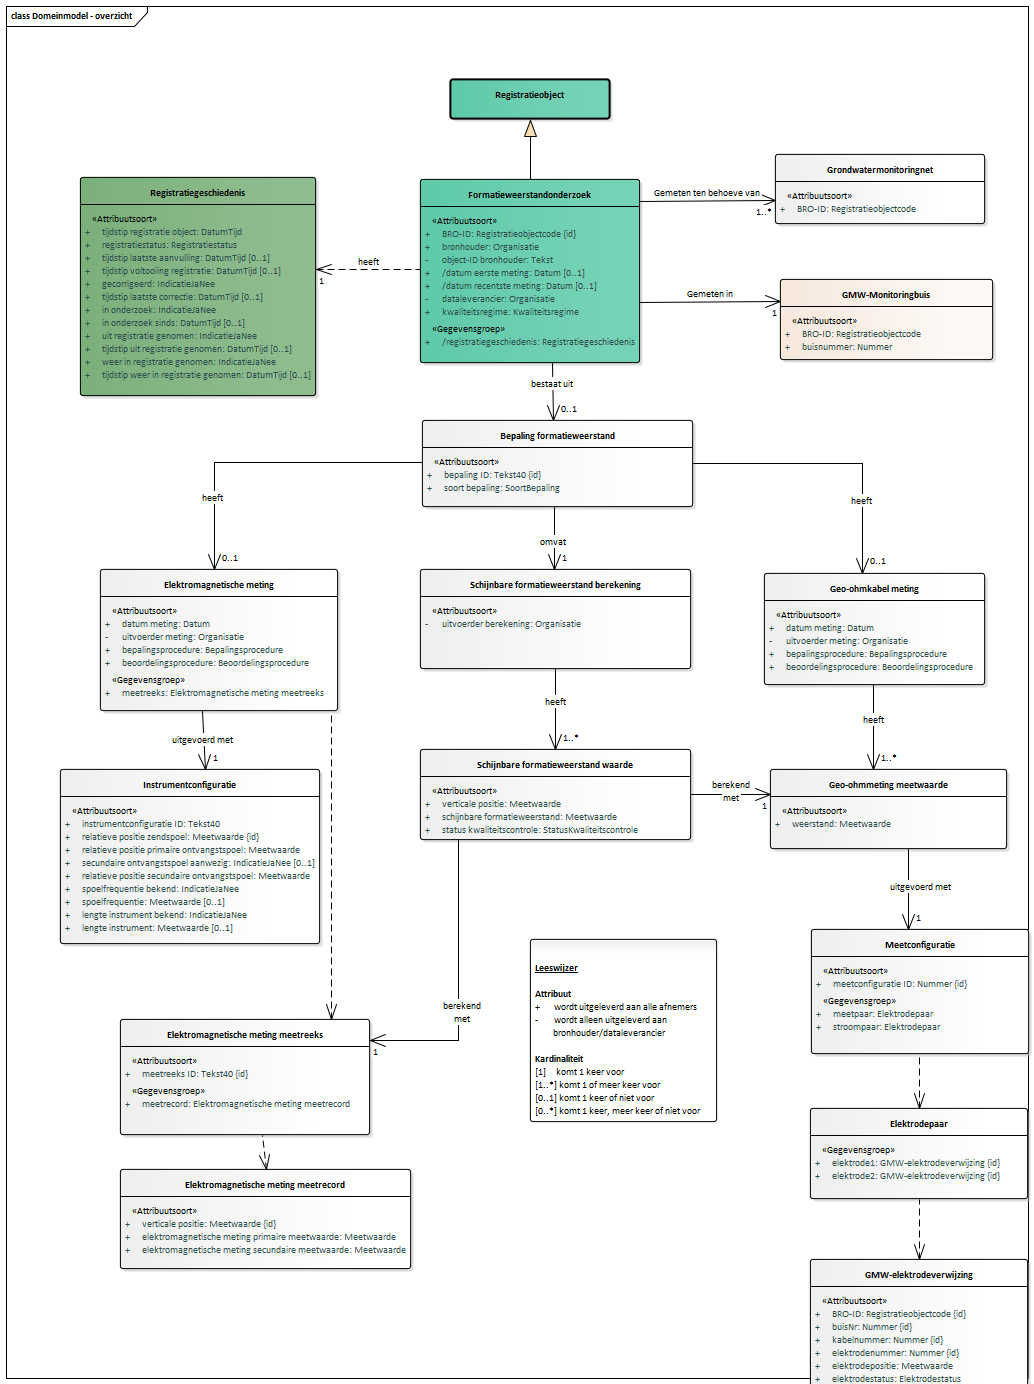
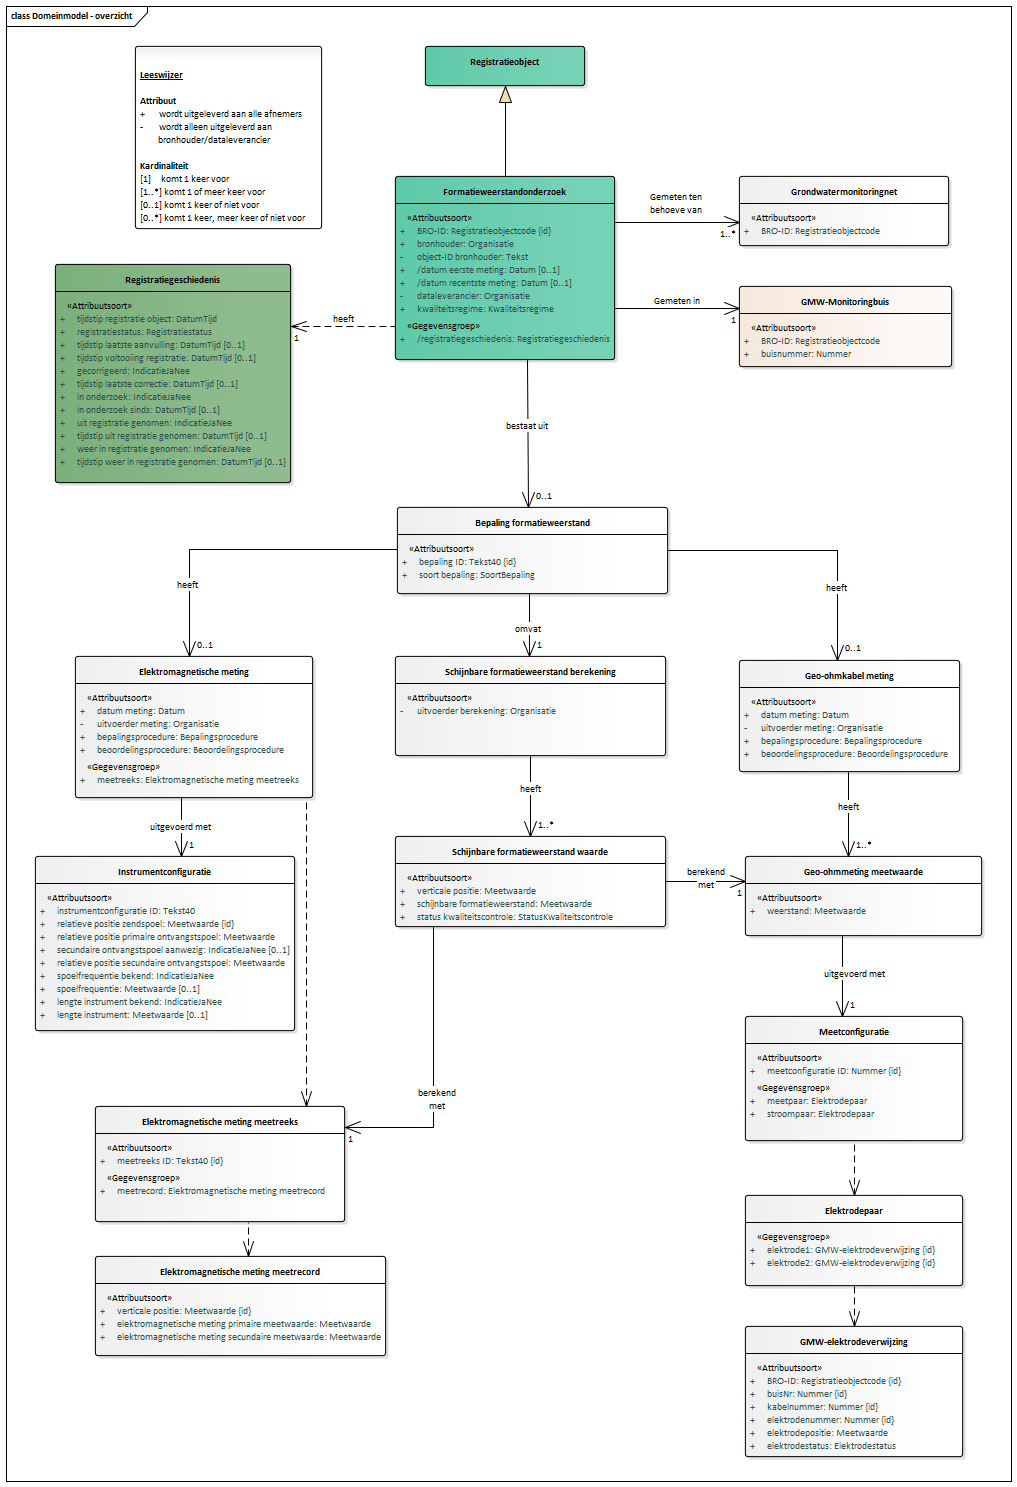
Conceptualmodel-FormatieweerstandonderzoekFRDconceptueel-0.8-1-20200910-20201004-162627

Changed region(s): [[0.0, 0.0, 1.0, 1.0], [0.5182, 0.6835, 0.6706, 0.8078], [0.4267, 0.7146, 0.4572, 0.7457]]

diff --git a/data/FRD-cat.msword.html b/data/FRD-cat.msword.html
@@ -15,7 +15,7 @@
    <body>
       <p>Conceptual model/Formatieweerstand onderzoek (FRD) conceptueel/20200910</p>
       <p>Imvertor: 1.61.3</p>
-      <p>Model release: Conceptualmodel-FormatieweerstandonderzoekFRDconceptueel-0.8-1-20200910-20201004-162001</p>
+      <p>Model release: Conceptualmodel-FormatieweerstandonderzoekFRDconceptueel-0.8-1-20200910-20201004-162627</p>
       <hr>
       <section>
          <h1>Artikel 1 Definitie van registratieobject, entiteiten en attributen</h1>
@@ -64,7 +64,7 @@
          <section>
             <h2>Het domeinmodel</h2>
             <section id="">
-               <div class="imageinfo overview"><img src="Images/EAID_0B3602DB_544E_4f6f_A6E2_DDE4A8A6790E.png" usemap="#imagemap-EAID_0B3602DB_544E_4f6f_A6E2_DDE4A8A6790E" alt="Diagram De lijst van protocollen of werkvoorschriften dat is toegepast bij de beoordeling van de kwaliteit van de meting.&#xA;"><map name="imagemap-EAID_0B3602DB_544E_4f6f_A6E2_DDE4A8A6790E"><area shape="rect" alt="Schijnbare formatieweerstand waarde" coords="420,749,691,840" href="#graph_EAID_1C615D07_2360_4c93_8371_F9173FA1C85B"><area shape="rect" alt="Schijnbare formatieweerstand berekening" coords="420,569,691,669" href="#graph_EAID_6F6C1FC0_77AE_4d31_8862_B7B443C2D0C8"><area shape="rect" alt="Elektromagnetische meting" coords="100,569,338,711" href="#graph_EAID_CA2EEC38_0161_4d1b_968C_E63B2F5C1547"><area shape="rect" alt="Elektrodepaar" coords="810,1108,1028,1199" href="#graph_EAID_F78E7F84_132E_4390_A72A_D32759DEBED4"><area shape="rect" alt="Geo-ohmkabel meting" coords="764,573,985,685" href="#graph_EAID_DB9DF92C_83D8_4d54_8B6A_6693052EF4B1"><area shape="rect" alt="Elektromagnetische meting meetreeks" coords="120,1019,370,1135" href="#graph_EAID_33450642_9C84_4c07_AFE3_FB734FBA8DBB"><area shape="rect" alt="Geo-ohmmeting meetwaarde" coords="770,769,1007,849" href="#graph_EAID_0E73504D_4081_4ea3_A7AA_1FB27FBC227B"><area shape="rect" alt="Instrumentconfiguratie" coords="60,769,320,944" href="#graph_EAID_C4102470_4315_4bda_9B2A_59EDEA9E2834"><area shape="rect" alt="Meetconfiguratie" coords="811,929,1029,1054" href="#graph_EAID_04636D26_BFC4_4838_AC91_21BB2BF62212"><area shape="rect" alt="Elektromagnetische meting meetrecord" coords="120,1169,411,1269" href="#graph_EAID_17DB4860_7353_467e_89CD_5018D22D8A43"><area shape="rect" alt="GMW-elektrodeverwijzing" coords="810,1259,1028,1390" href="#graph_EAID_EFFFB8A0_3810_43f9_83F1_FC48EFD1FE4E"><area shape="rect" alt="Grondwatermonitoringnet" coords="775,154,985,224" href="#graph_EAID_984D3056_0D28_4de8_B5D9_592AFE3F568F"><area shape="rect" alt="GMW-Monitoringbuis" coords="780,279,993,360" href="#graph_EAID_C5CA1164_130B_439f_819B_25C2507866E2"><area shape="rect" alt="Bepaling formatieweerstand" coords="422,420,693,507" href="#graph_EAID_D3B48B39_96CC_4f01_91F1_BDF0B725CD8A"><area shape="rect" alt="Registratiegeschiedenis" coords="80,177,316,396" href="#graph_EAID_0451B041_6862_420f_9E12_9829516BAF81"><area shape="rect" alt="Formatieweerstandonderzoek" coords="420,179,640,363" href="#graph_EAID_F03C2FC8_5705_46dc_927D_01B7EC61C2F2"><area shape="rect" alt="Registratieobject" coords="450,79,610,119" href="#graph_EAID_5706F7F6_075B_46d6_A47D_7DCF1EEB21B7"></map><p><b>Domeinmodel</b> — De lijst van protocollen of werkvoorschriften dat is toegepast bij de beoordeling
+               <div class="imageinfo overview"><img src="Images/EAID_0B3602DB_544E_4f6f_A6E2_DDE4A8A6790E.png" usemap="#imagemap-EAID_0B3602DB_544E_4f6f_A6E2_DDE4A8A6790E" alt="Diagram De lijst van protocollen of werkvoorschriften dat is toegepast bij de beoordeling van de kwaliteit van de meting.&#xA;"><map name="imagemap-EAID_0B3602DB_544E_4f6f_A6E2_DDE4A8A6790E"><area shape="rect" alt="Schijnbare formatieweerstand waarde" coords="395,836,666,927" href="#graph_EAID_1C615D07_2360_4c93_8371_F9173FA1C85B"><area shape="rect" alt="Schijnbare formatieweerstand berekening" coords="395,656,666,756" href="#graph_EAID_6F6C1FC0_77AE_4d31_8862_B7B443C2D0C8"><area shape="rect" alt="Elektromagnetische meting" coords="75,656,313,798" href="#graph_EAID_CA2EEC38_0161_4d1b_968C_E63B2F5C1547"><area shape="rect" alt="Elektrodepaar" coords="745,1195,963,1286" href="#graph_EAID_F78E7F84_132E_4390_A72A_D32759DEBED4"><area shape="rect" alt="Geo-ohmkabel meting" coords="739,660,960,772" href="#graph_EAID_DB9DF92C_83D8_4d54_8B6A_6693052EF4B1"><area shape="rect" alt="Elektromagnetische meting meetreeks" coords="95,1106,345,1222" href="#graph_EAID_33450642_9C84_4c07_AFE3_FB734FBA8DBB"><area shape="rect" alt="Geo-ohmmeting meetwaarde" coords="745,856,982,936" href="#graph_EAID_0E73504D_4081_4ea3_A7AA_1FB27FBC227B"><area shape="rect" alt="Instrumentconfiguratie" coords="35,856,295,1031" href="#graph_EAID_C4102470_4315_4bda_9B2A_59EDEA9E2834"><area shape="rect" alt="Meetconfiguratie" coords="745,1016,963,1141" href="#graph_EAID_04636D26_BFC4_4838_AC91_21BB2BF62212"><area shape="rect" alt="Elektromagnetische meting meetrecord" coords="95,1256,386,1356" href="#graph_EAID_17DB4860_7353_467e_89CD_5018D22D8A43"><area shape="rect" alt="GMW-elektrodeverwijzing" coords="745,1326,963,1457" href="#graph_EAID_EFFFB8A0_3810_43f9_83F1_FC48EFD1FE4E"><area shape="rect" alt="Grondwatermonitoringnet" coords="739,176,949,246" href="#graph_EAID_984D3056_0D28_4de8_B5D9_592AFE3F568F"><area shape="rect" alt="GMW-Monitoringbuis" coords="739,286,952,367" href="#graph_EAID_C5CA1164_130B_439f_819B_25C2507866E2"><area shape="rect" alt="Bepaling formatieweerstand" coords="397,507,668,594" href="#graph_EAID_D3B48B39_96CC_4f01_91F1_BDF0B725CD8A"><area shape="rect" alt="Registratiegeschiedenis" coords="55,264,291,483" href="#graph_EAID_0451B041_6862_420f_9E12_9829516BAF81"><area shape="rect" alt="Formatieweerstandonderzoek" coords="395,176,615,360" href="#graph_EAID_F03C2FC8_5705_46dc_927D_01B7EC61C2F2"><area shape="rect" alt="Registratieobject" coords="425,46,585,86" href="#graph_EAID_5706F7F6_075B_46d6_A47D_7DCF1EEB21B7"></map><p><b>Domeinmodel</b> — De lijst van protocollen of werkvoorschriften dat is toegepast bij de beoordeling
                      van de kwaliteit van de meting.
                      </p>
                </div>
